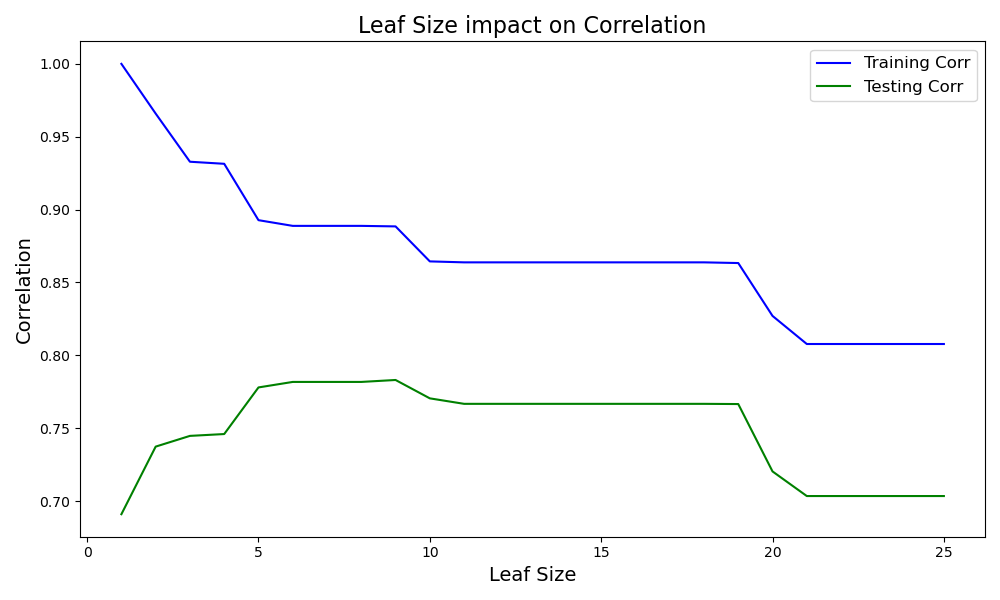
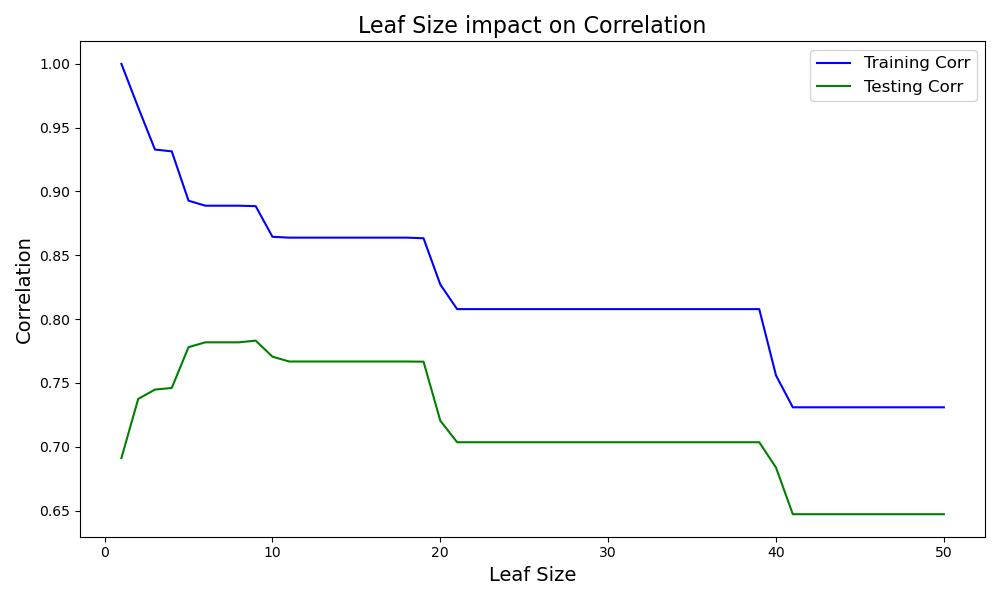
Add all final statistics for experiment 3, just need charts and uncomment other charts

diff --git a/assess_learners/testlearner.py b/assess_learners/testlearner.py
@@ -33,6 +33,7 @@ import BagLearner as bl
 import InsaneLearner as it  	   		 	   		  		  		    	 		 		   		 		  
 import LinRegLearner as lrl  
 import matplotlib.pyplot as plt	
+import time
 
 
 
@@ -103,7 +104,7 @@ if __name__ == "__main__":
     data_x, data_y = get_data(sys.argv[1])
     reshaped_data_y = data_y.reshape(-1, 1)
     combined_data = np.hstack((data_x, reshaped_data_y))
-  		  	   		 	   		  		  		    	 		 		   		 		  
+    # import pdb; pdb.set_trace()
     train_rows = int(0.6 * combined_data.shape[0])  		  	   		 	   		  		  		    	 		 		   		 		  
     test_rows = combined_data.shape[0] - train_rows  		  	   		 	   		  		  		    	 		 		   		 		  
   		  	   		 	   		  		  		    	 		 		   		 		  
@@ -118,7 +119,7 @@ if __name__ == "__main__":
 
     # Experiment 1 
 
-    max_leaf_size = 25
+    max_leaf_size = 50
     experiment_1_learners = np.empty(max_leaf_size, dtype=object)
 
     # Model Training for models up to max leaf size
@@ -143,6 +144,50 @@ if __name__ == "__main__":
         testing_rmse[i] = math.sqrt(((test_y - y_pred_test) ** 2).sum() / test_y.shape[0])
         testing_corr[i] = np.corrcoef(y_pred_test, y=test_y)[0,1]  
 
+    plt.figure(figsize=(10,6))
+    plt.plot(range(1,max_leaf_size + 1), training_rmse, label = 'Training RMSE', color = 'blue')
+    plt.plot(range(1,max_leaf_size + 1), testing_rmse, label = 'Testing RMSE', color = 'green')
+    plt.xlabel('Leaf Size', fontsize=14)
+    plt.ylabel('RMSE', fontsize=14)
+    plt.title('Leaf Size impact on RMSE', fontsize=16)
+    plt.legend(loc=0, fontsize=12)
+    plt.tight_layout()
+    # plt.savefig('images/leaf_size_impact_on_rmse.png')
+
+    plt.figure(figsize=(10,6))
+    plt.plot(range(1,max_leaf_size + 1), training_corr, label = 'Training Corr', color = 'blue')
+    plt.plot(range(1,max_leaf_size + 1), testing_corr, label = 'Testing Corr', color = 'green')
+    plt.xlabel('Leaf Size', fontsize=14)
+    plt.ylabel('Correlation', fontsize=14)
+    plt.title('Leaf Size impact on Correlation', fontsize=16)
+    plt.legend(loc=0, fontsize=12)
+    plt.tight_layout()
+    # plt.savefig('images/leaf_size_impact_on_corr.png')
+
+    # Experiment 2 
+
+    max_leaf_size = 50
+    experiment_2_learners = np.empty(max_leaf_size, dtype=object)
+
+    for i in range(max_leaf_size):
+        experiment_2_learners[i] = bl.BagLearner(learner = dt.DTLearner, kwargs = {"leaf_size":i})
+        experiment_2_learners[i].add_evidence(train_x, train_y)
+
+    training_rmse = np.zeros(max_leaf_size) 
+    training_corr = np.zeros(max_leaf_size)
+    
+    for i in range(max_leaf_size):
+        y_pred_train = experiment_2_learners[i].query(train_x)
+        training_rmse[i] = math.sqrt(((train_y - y_pred_train) ** 2).sum() / train_y.shape[0])  
+        training_corr[i] = np.corrcoef(y_pred_train, y=train_y)[0,1]  
+
+    testing_rmse = np.zeros(max_leaf_size)
+    testing_corr = np.zeros(max_leaf_size)
+    for i in range(max_leaf_size):
+        y_pred_test = experiment_2_learners[i].query(test_x)
+        testing_rmse[i] = math.sqrt(((test_y - y_pred_test) ** 2).sum() / test_y.shape[0])
+        testing_corr[i] = np.corrcoef(y_pred_test, y=test_y)[0,1]  
+
     # import pdb; pdb.set_trace()
 
     plt.figure(figsize=(10,6))
@@ -153,7 +198,7 @@ if __name__ == "__main__":
     plt.title('Leaf Size impact on RMSE', fontsize=16)
     plt.legend(loc=0, fontsize=12)
     plt.tight_layout()
-    plt.savefig('images/leaf_ssize_impact_on_rmse.png')
+    # plt.savefig('images/bagging_leaf_size_impact_on_rmse.png')
 
     plt.figure(figsize=(10,6))
     plt.plot(range(1,max_leaf_size + 1), training_corr, label = 'Training Corr', color = 'blue')
@@ -163,26 +208,75 @@ if __name__ == "__main__":
     plt.title('Leaf Size impact on Correlation', fontsize=16)
     plt.legend(loc=0, fontsize=12)
     plt.tight_layout()
-    plt.savefig('images/leaf_size_impact_on_corr.png')
+    # plt.savefig('images/bagging_leaf_size_impact_on_corr.png')
 
+    # Experiment 3
+    random_dataset_indexes = np.zeros((10, combined_data.shape[0]), dtype=int)
+    combined_random_dataset = np.zeros((10, combined_data.shape[0], combined_data.shape[1]))
 
+    for i in range(10):
+        random_dataset_indexes[i] = np.random.default_rng(i).choice(combined_data.shape[0],combined_data.shape[0])
+        combined_random_dataset[i] = combined_data[random_dataset_indexes[i]]  
 
+    dt_all_time_to_build = np.empty(10, dtype=object)
+    rt_all_time_to_build = np.empty(10, dtype=object)
+    dt_all_r_squared = np.empty(10, dtype=object)
+    rt_all_r_squared = np.empty(10, dtype=object)
+    # Model Training for models up to max leaf size
+    for index, dataset in enumerate(combined_random_dataset):
+        train_rows = int(0.6 * dataset.shape[0])  		  	   		 	   		  		  		    	 		 		   		 		  
+        test_rows = dataset.shape[0] - train_rows  		  	   		 	   		  		  		    	 		 		   		 		  
+                                                                                            
+        # separate out training and testing data  		  	   		 	   		  		  		    	 		 		   		 		  
+        train_x = dataset[:train_rows, 0:-1]  		  	   		 	   		  		  		    	 		 		   		 		  
+        train_y = dataset[:train_rows, -1]  		  	   		 	   		  		  		    	 		 		   		 		  
+        test_x = dataset[train_rows:, 0:-1]  		  	   		 	   		  		  		    	 		 		   		 		  
+        test_y = dataset[train_rows:, -1]  		
 
-  		  	   		 	   		  		  		    	 		 		   		 		  
-    # evaluate in sample  		  	   		 	   		  		  		    	 		 		   		 		  
-    # pred_y = dt_learner.query(train_x)  # get the predictions  		  	   		 	   		  		  		    	 		 		   		 		  
-    		  	   		 	   		  		  		    	 		 		   		 		  
-    # print()  		  	   		 	   		  		  		    	 		 		   		 		  
-    # print("In sample results")  		  	   		 	   		  		  		    	 		 		   		 		  
-    # print(f"RMSE: {rmse}")  		  	   		 	   		  		  		    	 		 		   		 		  
-    # c = np.corrcoef(pred_y, y=train_y)  		  	   		 	   		  		  		    	 		 		   		 		  
-    # print(f"corr: {c[0,1]}")  		  	   		 	   		  		  		    	 		 		   		 		  
-  		  	   		 	   		  		  		    	 		 		   		 		  
-    # # evaluate out of sample  		  	   		 	   		  		  		    	 		 		   		 		  
-    # # pred_y = dt_learner.query(test_x)  # get the predictions  		  	   		 	   		  		  		    	 		 		   		 		  
-    # # rmse = math.sqrt(((test_y - pred_y) ** 2).sum() / test_y.shape[0])  		  	   		 	   		  		  		    	 		 		   		 		  
-    # print()  		  	   		 	   		  		  		    	 		 		   		 		  
-    # print("Out of sample results")  		  	   		 	   		  		  		    	 		 		   		 		  
-    # print(f"RMSE: {rmse}")  		  	   		 	   		  		  		    	 		 		   		 		  
-    # c = np.corrcoef(pred_y, y=test_y)  		  	   		 	   		  		  		    	 		 		   		 		  
-    # print(f"corr: {c[0,1]}")  		  	   		 	   		  		  		    	 		 		   		 		  
+        max_leaf_size = 25
+        dt_learners = np.empty(max_leaf_size, dtype=object)
+        rt_learners = np.empty(max_leaf_size, dtype=object)
+        dt_learners_time_to_build = np.zeros(max_leaf_size)
+        rt_learners_time_to_build = np.zeros(max_leaf_size)
+        dt_test_r_squared = np.zeros(max_leaf_size) 
+        rt_test_r_squared = np.zeros(max_leaf_size)
+
+        for j in range(max_leaf_size):
+            dt_learners[j] = dt.DTLearner(leaf_size=(j+1))
+            start_time = time.time()
+            dt_learners[j].add_evidence(train_x,train_y)
+            end_time = time.time()
+            dt_learners_time_to_build[j] = end_time - start_time
+            
+        
+        for k in range(max_leaf_size):
+            rt_learners[k] = rt.RTLearner(leaf_size=(k+1))
+            start_time = time.time()
+            rt_learners[k].add_evidence(train_x,train_y)
+            end_time = time.time()
+            rt_learners_time_to_build[k] = end_time - start_time
+
+        dt_all_time_to_build[index] = dt_learners_time_to_build
+        rt_all_time_to_build[index] = rt_learners_time_to_build
+        
+
+        for m in range(max_leaf_size):
+            y_pred_test = dt_learners[m].query(test_x)
+            ss_residual = ((test_y - y_pred_test) ** 2).sum()
+            ss_total = ((test_y - test_y.mean()) ** 2).sum()
+            dt_test_r_squared[m] = 1 - (ss_residual / ss_total)
+
+        for n in range(max_leaf_size):
+            y_pred_test = rt_learners[n].query(test_x)
+            ss_residual = ((test_y - y_pred_test) ** 2).sum()
+            ss_total = ((test_y - test_y.mean()) ** 2).sum()
+            rt_test_r_squared[n] = 1 - (ss_residual / ss_total)
+
+        dt_all_r_squared[index] = dt_test_r_squared
+        rt_all_r_squared[index] = rt_test_r_squared
+
+    dt_mean_build_time_all_sims = np.mean(dt_all_time_to_build) 
+    rt_mean_build_time_all_sims = np.mean(rt_all_time_to_build) 
+    dt_mean_r_squared_all_sims = np.mean(dt_all_r_squared) 
+    rt_mean_r_squared_all_sims = np.mean(rt_all_r_squared) 
+    # import pdb; pdb.set_trace()

diff --git a/assess_learners/BagLearner.py b/assess_learners/BagLearner.py
@@ -40,7 +40,7 @@ class BagLearner(object):
         If verbose = False your code should not generate ANY output. When we test your code, verbose will be False.  		  	   		 	   		  		  		    	 		 		   		 		  
     :type verbose: bool  		  	   		 	   		  		  		    	 		 		   		 		  
     """  		  	   		 	   		  		  		    	 		 		   		 		  
-    def __init__(self, learner, kwargs = {"argument1":1, "argument2":2}, bags = 20, boost= False, verbose=False):  		  	   		 	   		  		  		    	 		 		   		 		  
+    def __init__(self, learner, kwargs = {}, bags = 20, boost= False, verbose=False):  		  	   		 	   		  		  		    	 		 		   		 		  
         """  		  	   		 	   		  		  		    	 		 		   		 		  
         Constructor method  		  	   		 	   		  		  		    	 		 		   		 		  
         """
